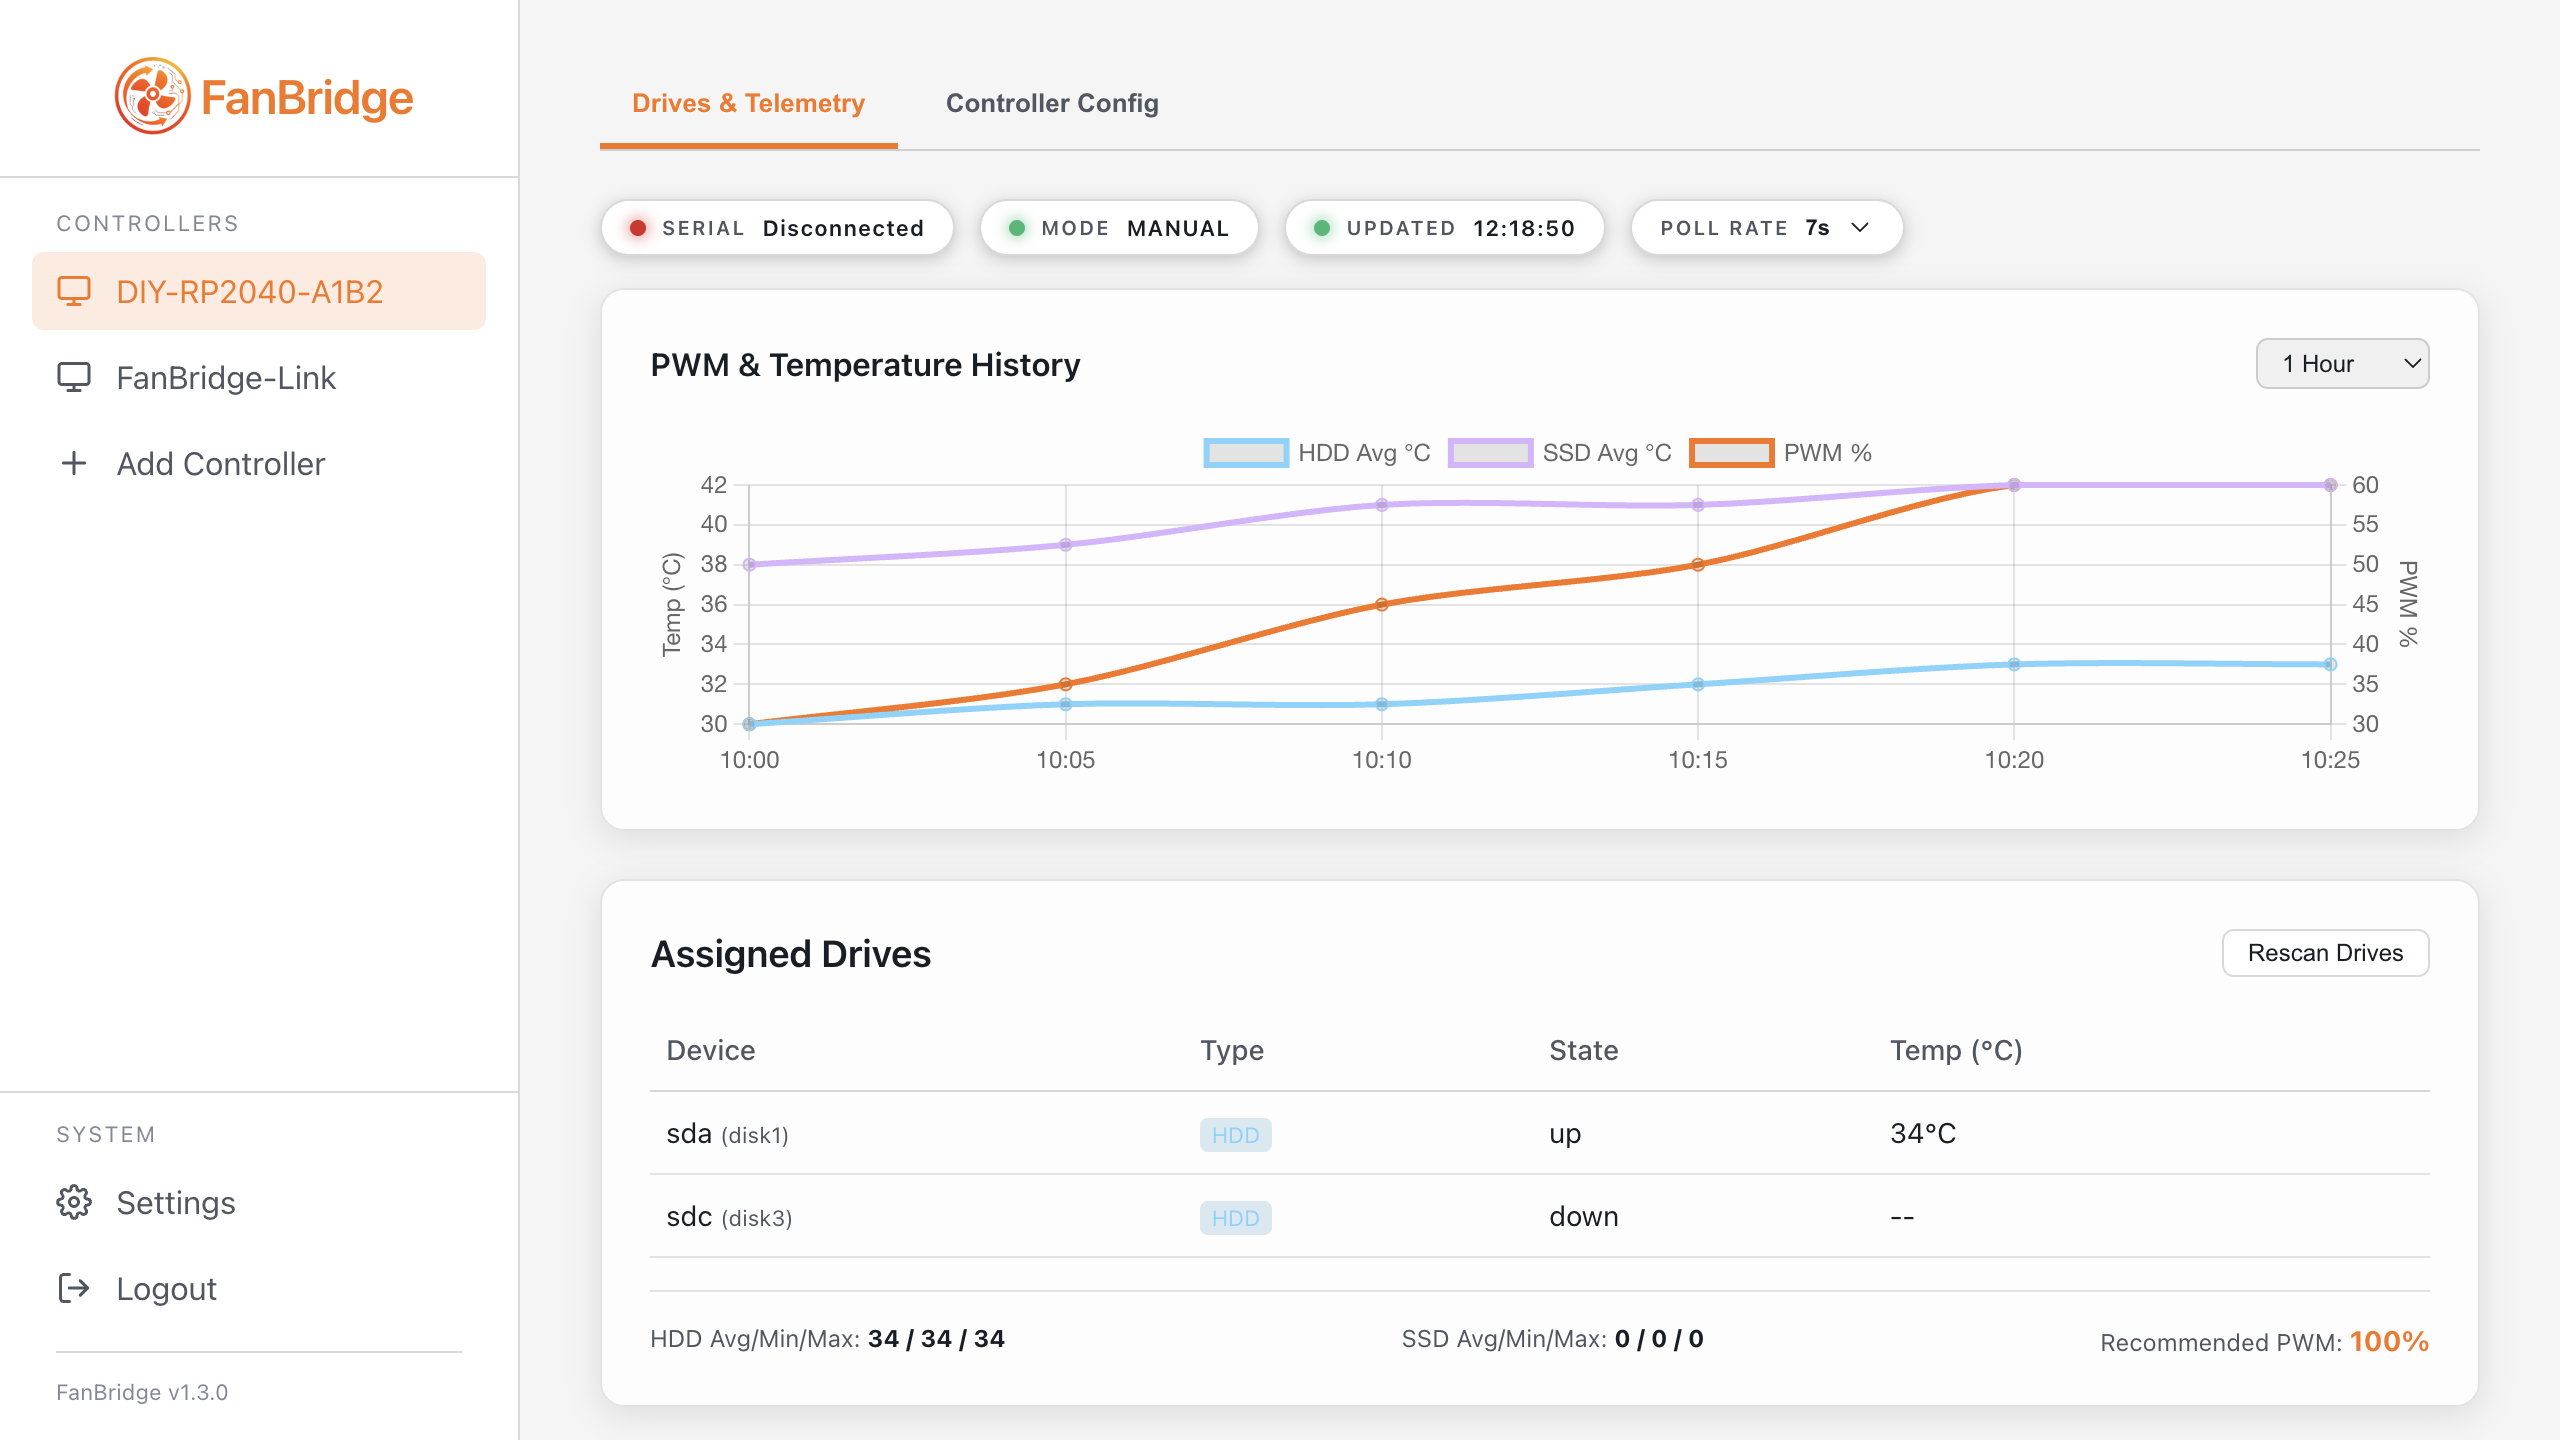
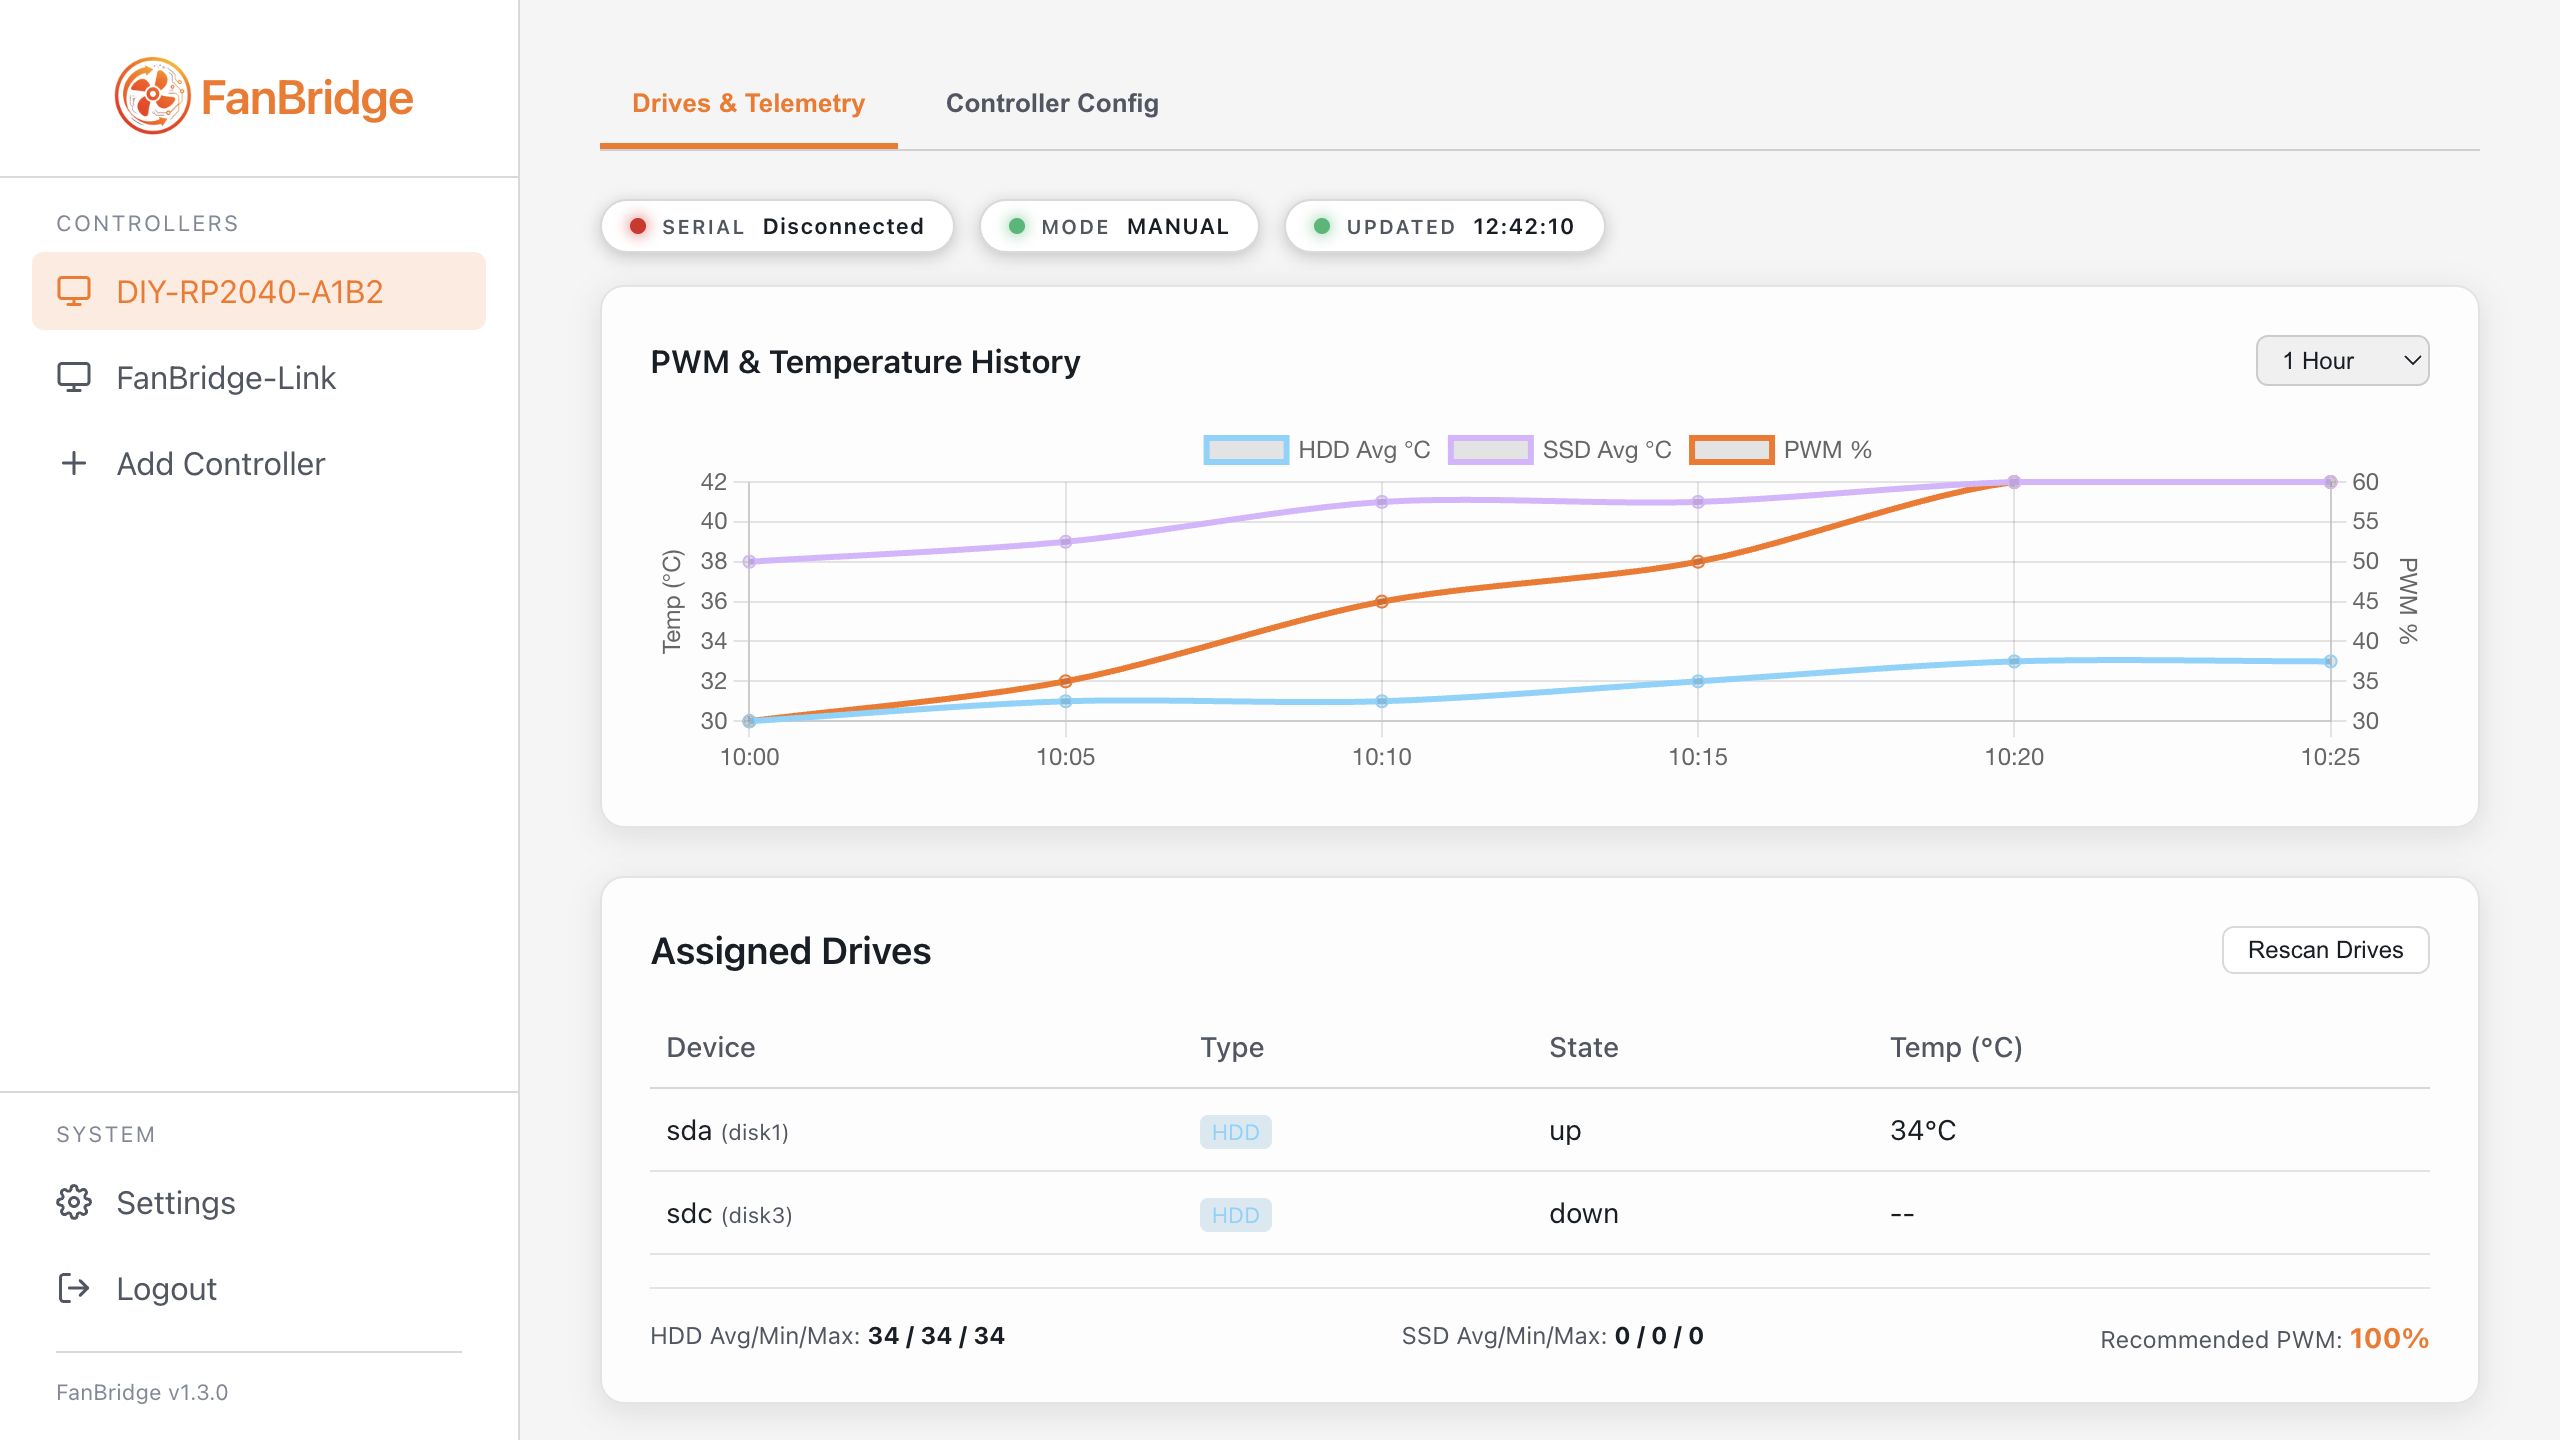
release: prepare FanBridge 1.3.0

diff --git a/frontend/src/components/Dashboard.js b/frontend/src/components/Dashboard.js
@@ -29,7 +29,7 @@ export function initDashboardContainer(container) {
     <!-- TAB 1: Drives & Telemetry -->
     <div id="tab-drives-content" style="display: none;">
       <!-- Global Dashboard Status Pips -->
-      <div style="display: flex; gap: 12px; margin-bottom: 16px; flex-wrap: wrap;">
+      <div class="controller-status-row controller-status-row--official" id="controller-status-row">
         <div class="status-pip pip-success" id="pip-container-serial">
           <span class="pip-dot"></span>
           <span class="pip-label">Serial</span>
@@ -59,17 +59,6 @@ export function initDashboardContainer(container) {
           <span class="pip-dot"></span>
           <span class="pip-label">Updated</span>
           <span class="pip-value" id="pip-last-updated">--:--:--</span>
-        </div>
-        <div class="status-pip">
-          <span class="pip-label">Poll Rate</span>
-          <select id="pip-refresh-rate" style="background: transparent; border: none; color: var(--color-text-primary); font-size: 11px; font-weight: 600; cursor: pointer; padding: 0; margin-left: -4px;">
-            <option value="3">3s</option>
-            <option value="5">5s</option>
-            <option value="7" selected>7s</option>
-            <option value="10">10s</option>
-            <option value="15">15s</option>
-            <option value="30">30s</option>
-          </select>
         </div>
       </div>
 
@@ -344,16 +333,6 @@ export function initDashboardContainer(container) {
     }
   });
 
-  // Bind Poll Rate pip
-  document.getElementById('pip-refresh-rate').addEventListener('change', (e) => {
-    if (window.updatePollInterval) {
-      window.updatePollInterval(parseInt(e.target.value, 10));
-    }
-    // Also sync the standard setting input if it exists
-    const standardInput = document.getElementById('poll-interval');
-    if (standardInput) standardInput.value = e.target.value;
-  });
-
   // Bind PWM Override Toggle
   const btnCurveGlobal = document.getElementById('btn-curve-global');
   const btnCurveCustom = document.getElementById('btn-curve-custom');
@@ -612,6 +591,7 @@ export function updateDashboardData(data, activeControllerId) {
 
   // Hide or show elements based on controller type
   const isDIY = controller.type === 'diy';
+  const statusRow = document.getElementById('controller-status-row');
   const pip12v = document.getElementById('pip-container-12v');
   const pipThermal = document.getElementById('pip-container-thermal');
   const pipHealth = document.getElementById('pip-container-health');
@@ -619,6 +599,11 @@ export function updateDashboardData(data, activeControllerId) {
   const configOverview = document.getElementById('controller-config-overview');
   const hardwareTelemetry = document.getElementById('hardware-telemetry-card');
   const fanConfigSection = document.getElementById('fan-config-section');
+
+  if (statusRow) {
+    statusRow.classList.toggle('controller-status-row--diy', isDIY);
+    statusRow.classList.toggle('controller-status-row--official', !isDIY);
+  }
   
   if (pip12v) pip12v.style.display = isDIY ? 'none' : 'flex';
   if (pipThermal) pipThermal.style.display = isDIY ? 'none' : 'flex';

diff --git a/frontend/src/styles/layout.css b/frontend/src/styles/layout.css
@@ -156,6 +156,22 @@
   margin-top: 24px;
 }
 
+.controller-status-row {
+  display: flex;
+  flex-wrap: wrap;
+  justify-content: center;
+  gap: 12px;
+  margin-bottom: 16px;
+}
+
+.controller-status-row--diy {
+  justify-content: flex-start;
+}
+
+.controller-status-row--official {
+  justify-content: center;
+}
+
 .controller-tool-slot {
   display: flex;
   min-width: 0;

diff --git a/container/templates/index.html b/container/templates/index.html
@@ -8,8 +8,8 @@
     <meta name="app-version" content="{{ version }}">
     <meta name="username" content="{{ username }}">
     <title>FanBridge</title>
-    <script type="module" crossorigin src="/static/dist/assets/index-BasprAQ6.js"></script>
-    <link rel="stylesheet" crossorigin href="/static/dist/assets/index-DeYjzV6O.css">
+    <script type="module" crossorigin src="/static/dist/assets/index-Bn7M5zVZ.js"></script>
+    <link rel="stylesheet" crossorigin href="/static/dist/assets/index-C3wIv1N1.css">
   </head>
   <body>
     <div id="app"></div>

diff --git a/README.md b/README.md
@@ -59,12 +59,14 @@ See the [controller firmware and wiring guide](fanbridge-link/README.md) and the
 FanBridge is not currently available in the public Community Applications feed while its listing is migrated. Install the version 2 template manually from an Unraid terminal:
 
 ```bash
+mkdir -p /boot/config/plugins/dockerMan/templates-user
 curl --fail --location --proto '=https' --tlsv1.2 \
   --output /boot/config/plugins/dockerMan/templates-user/my-fanbridge.xml \
   https://raw.githubusercontent.com/RoBroLabs/fanbridge/main/unraid-templates/templates/my-fanbridge.xml
+head -n 2 /boot/config/plugins/dockerMan/templates-user/my-fanbridge.xml
 ```
 
-Confirm the file starts with the XML declaration and `<Container version="2">`, then open **Docker → Add Container** and select **FanBridge**.
+Confirm the output starts with the XML declaration and `<Container version="2">`, then open **Docker → Add Container**, select **FanBridge** from the template list, and leave **Privileged** off. The template pulls the stable `ghcr.io/robrolabs/fanbridge:latest` image; its settings match the Community Applications submission.
 
 ### Required mappings
 
@@ -75,6 +77,8 @@ Confirm the file starts with the XML declaration and `<Container version="2">`, 
 | **Controller 1** | `/dev/serial/by-id/<controller-id>` | `/dev/ttyACM0` | Device |
 | **Controller 2** | A different `/dev/serial/by-id/<controller-id>` | `/dev/ttyACM1` | Device |
 
+The template also sets the Web UI to host port `8080`, `FANBRIDGE_DISKS_STALE_WARN_SEC=600`, and `FANBRIDGE_SECURE_COOKIES=0`. Change the host port if `8080` is already occupied. Set secure cookies to `1` only when the Web UI is served through HTTPS.
+
 Add further controllers with distinct container paths such as `/dev/ttyACM2`. Do not enable privileged mode, expose all of `/dev`, or create a second overlapping bind for `/unraid/disks.ini`.
 
 Map the entire `/var/local/emhttp` directory because Unraid may replace `disks.ini` atomically. A bind to only the old file inode can silently stop receiving updates.
@@ -84,10 +88,11 @@ Full template instructions are in [unraid-templates/README.md](unraid-templates/
 ## First run
 
 1. Start the container and open `http://<unraid-host>:8080/`.
-2. If `FANBRIDGE_SETUP_TOKEN` was not preset, retrieve the generated token from the container log or `/config/setup.token`:
+2. If `FANBRIDGE_SETUP_TOKEN` was not preset, retrieve the generated token from the container log or the mapped AppData directory:
 
    ```bash
    docker logs FanBridge
+   cat /mnt/user/appdata/fanbridge/setup.token
    ```
 
 3. Create the first administrator with the setup token and a password of at least 12 characters.

diff --git a/unraid-templates/README.md b/unraid-templates/README.md
@@ -7,12 +7,14 @@ This template deploys FanBridge without privileged mode and gives it only the Un
 FanBridge is not currently listed in the public Community Applications feed while the listing is migrated. Until it appears there, install the template manually from an Unraid terminal:
 
 ```bash
+mkdir -p /boot/config/plugins/dockerMan/templates-user
 curl --fail --location --proto '=https' --tlsv1.2 \
   --output /boot/config/plugins/dockerMan/templates-user/my-fanbridge.xml \
   https://raw.githubusercontent.com/RoBroLabs/fanbridge/main/unraid-templates/templates/my-fanbridge.xml
+head -n 2 /boot/config/plugins/dockerMan/templates-user/my-fanbridge.xml
 ```
 
-Check that the downloaded file begins with the XML declaration and `<Container version="2">`, then open **Docker → Add Container** and select **FanBridge** from the template list.
+Check that the output begins with the XML declaration and `<Container version="2">`, then open **Docker → Add Container** and select **FanBridge** from the template list. Leave **Privileged** off. The template uses the stable `ghcr.io/robrolabs/fanbridge:latest` image and the same settings submitted to Community Applications.
 
 ## Required mappings
 
@@ -22,6 +24,8 @@ Check that the downloaded file begins with the XML declaration and `<Container v
 | AppData | `/mnt/user/appdata/fanbridge` | `/config` | Persistent settings, users, secrets, and history. |
 | Unraid emhttp | `/var/local/emhttp` | `/unraid` (read-only) | Live `/unraid/disks.ini` temperature source. |
 | Controller 1 | `/dev/serial/by-id/<controller-id>` | `/dev/ttyACM0` | First FanBridge Link serial device. |
+
+The template sets `FANBRIDGE_DISKS_STALE_WARN_SEC=600`, `FANBRIDGE_SECURE_COOKIES=0`, and host port `8080`. Change only the host side of the port mapping if `8080` is already occupied. Set secure cookies to `1` only behind HTTPS.
 
 Use the controller's stable `/dev/serial/by-id/...` host path, not a changing `/dev/ttyACM*` host number. For each additional controller, add a **Device** mapping with a different host by-id path and a distinct container target such as `/dev/ttyACM1`; select that container path in FanBridge. Do not enable privileged mode or map all of `/dev`.
 
@@ -40,6 +44,8 @@ Shorter Unraid polling reacts sooner but adds SMART-query overhead and can affec
 ## First-run access
 
 Leave `FANBRIDGE_SETUP_TOKEN` blank to have FanBridge generate `/config/setup.token` and print the token once in the container log. Use that token when creating the first administrator account; FanBridge removes the generated token file after setup succeeds. You may instead preset a long random token, but Unraid stores environment values in its saved container template even when the UI masks them.
+
+With the default AppData mapping, retrieve the generated token using either `docker logs FanBridge` or `cat /mnt/user/appdata/fanbridge/setup.token`, then open `http://<unraid-host>:8080/` and create the first administrator.
 
 In-container firmware flashing is hard-disabled. The template deliberately grants no USB bus, block-device, or mount access. Follow the [manual firmware guide](../fanbridge-link/README.md) from the Unraid host or a trusted workstation.
 

diff --git a/RELEASE.md b/RELEASE.md
@@ -2,7 +2,7 @@ Version: 1.3.0
 
 # Changelog
 
-## 1.3.0 — 2026-07-13
+## 1.3.0 — 2026-07-14
 
 Safety and reliability
 
@@ -30,6 +30,7 @@ Frontend and repository
 - Reconnected settings, curves, assignments, password change, logs, history range, logout, and controller-scoped APIs; unsupported controls are disabled or removed.
 - Fixed responsive layout, escaped telemetry interpolation, stored-DOM-XSS paths, session-expiry handling, and the missing login assets.
 - Added backend control/security tests and frontend contract tests; removed tracked virtual environments and obsolete demo artifacts.
+- Removed the duplicate dashboard poll-rate control; the browser refresh interval remains in Controller Settings. Official-controller status indicators are centred, while the smaller DIY set remains left-aligned.
 
 Upgrade notes
 

diff --git a/unraid-templates/CHANGELOG.md b/unraid-templates/CHANGELOG.md
@@ -11,6 +11,7 @@
 - Added optional first-run setup-token configuration and hard-disabled in-container firmware flashing.
 - Added a 600-second stale-data threshold and guidance for five-minute Unraid SMART polling.
 - Corrected installation guidance while the app is absent from the public Community Applications feed.
+- Finalised the stable 1.3.0 template and aligned its descriptions with the manual Unraid bootstrap settings.
 
 ## v1.2.3
 